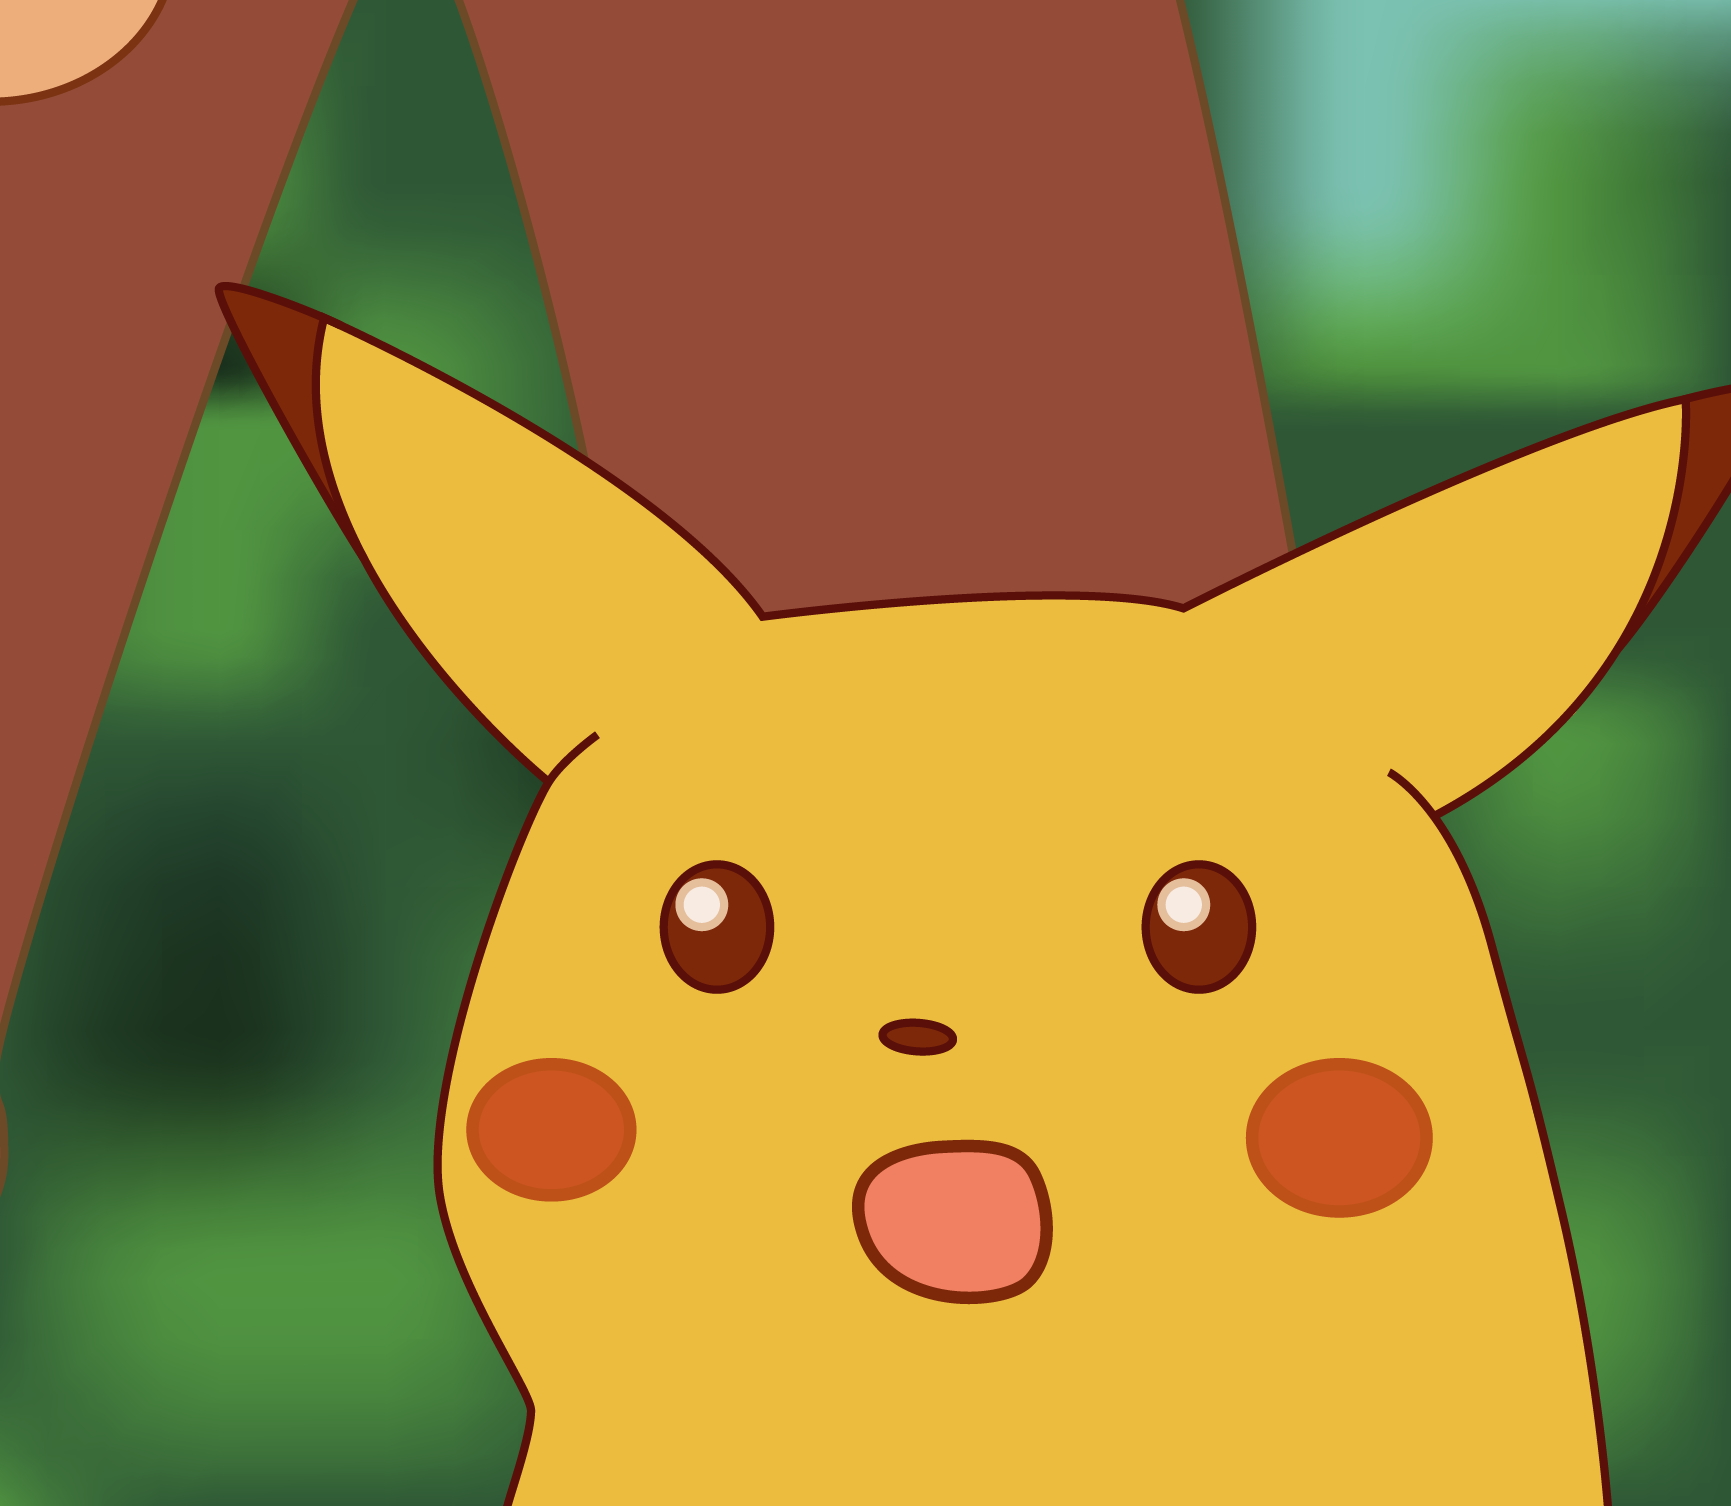
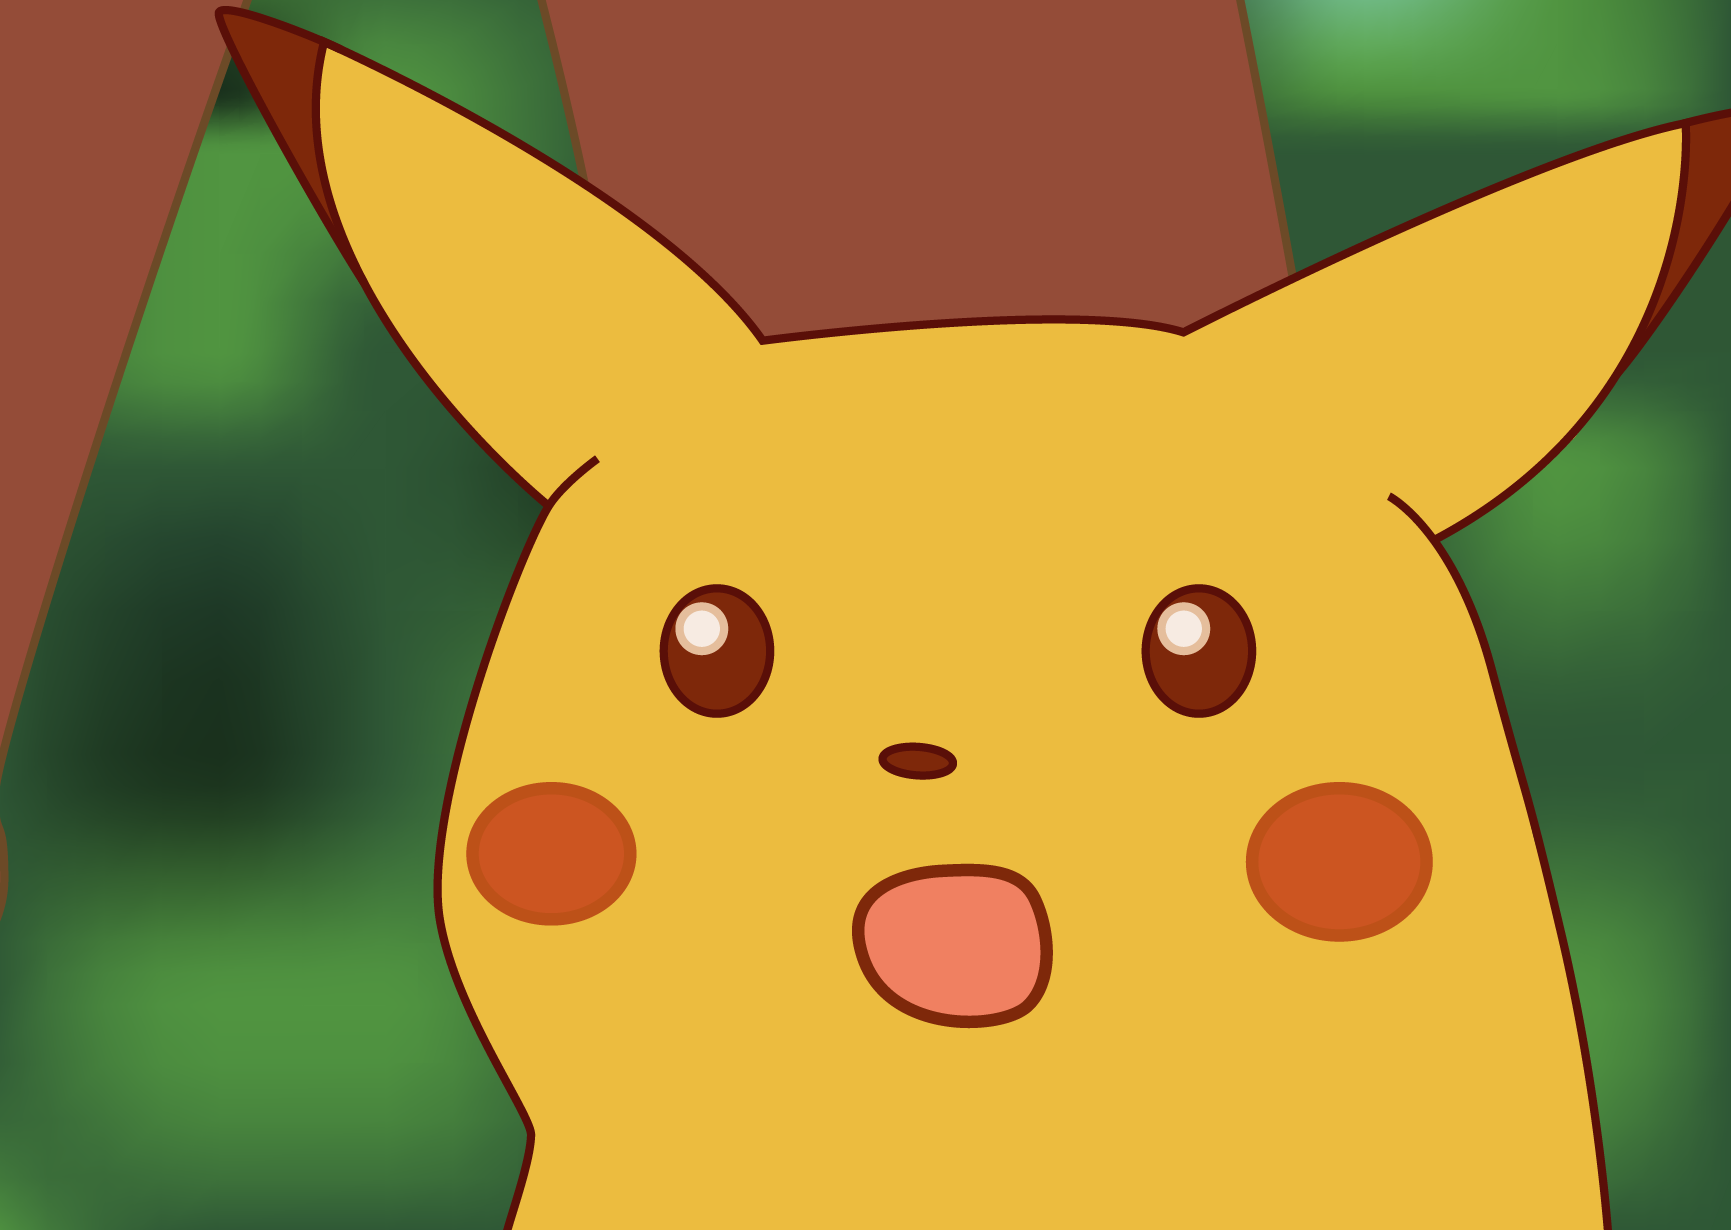
Some img fixes

diff --git a/index.html b/index.html
@@ -68,6 +68,9 @@
 		.red {
 			color: red;
 		}
+		.gray {
+			color: gray;
+		}
 	</style>
 
 	<!-- Printing and PDF exports -->
@@ -102,7 +105,7 @@
 			</section>
 			<section>
 				<section>
-					<h1>What is <span class="line-through">Love</span> <span class="firebase-color">Firebase</span></h1>
+					<h1>What is <span class="line-through gray">Love</span> <span class="firebase-color">Firebase</span></h1>
 				</section>
 				<section data-background="media/firebaseHome.png">
 					<!-- <img class="stretch no-img-border" data-src="media/firebaseHome.png"> -->
@@ -227,13 +230,13 @@
 				<section>
 					<h2> Easy to add fields, but need to code defensively </h2>
 				</section>
-				<section data-background="media/data-comparison.png">
+				<section class="contain-bg-img" data-background="media/data-comparison.png">
 
 				</section>
 				<section>
 					<h2> NoSQL means no SQL... </h2>
 				</section>
-				<section data-background="media/pika.png">
+				<section class="contain-bg-img" data-background="media/pika.png">
 				<aside class="notes" data-markdown>
                         - No fancy joins
 						- Which leads to...
